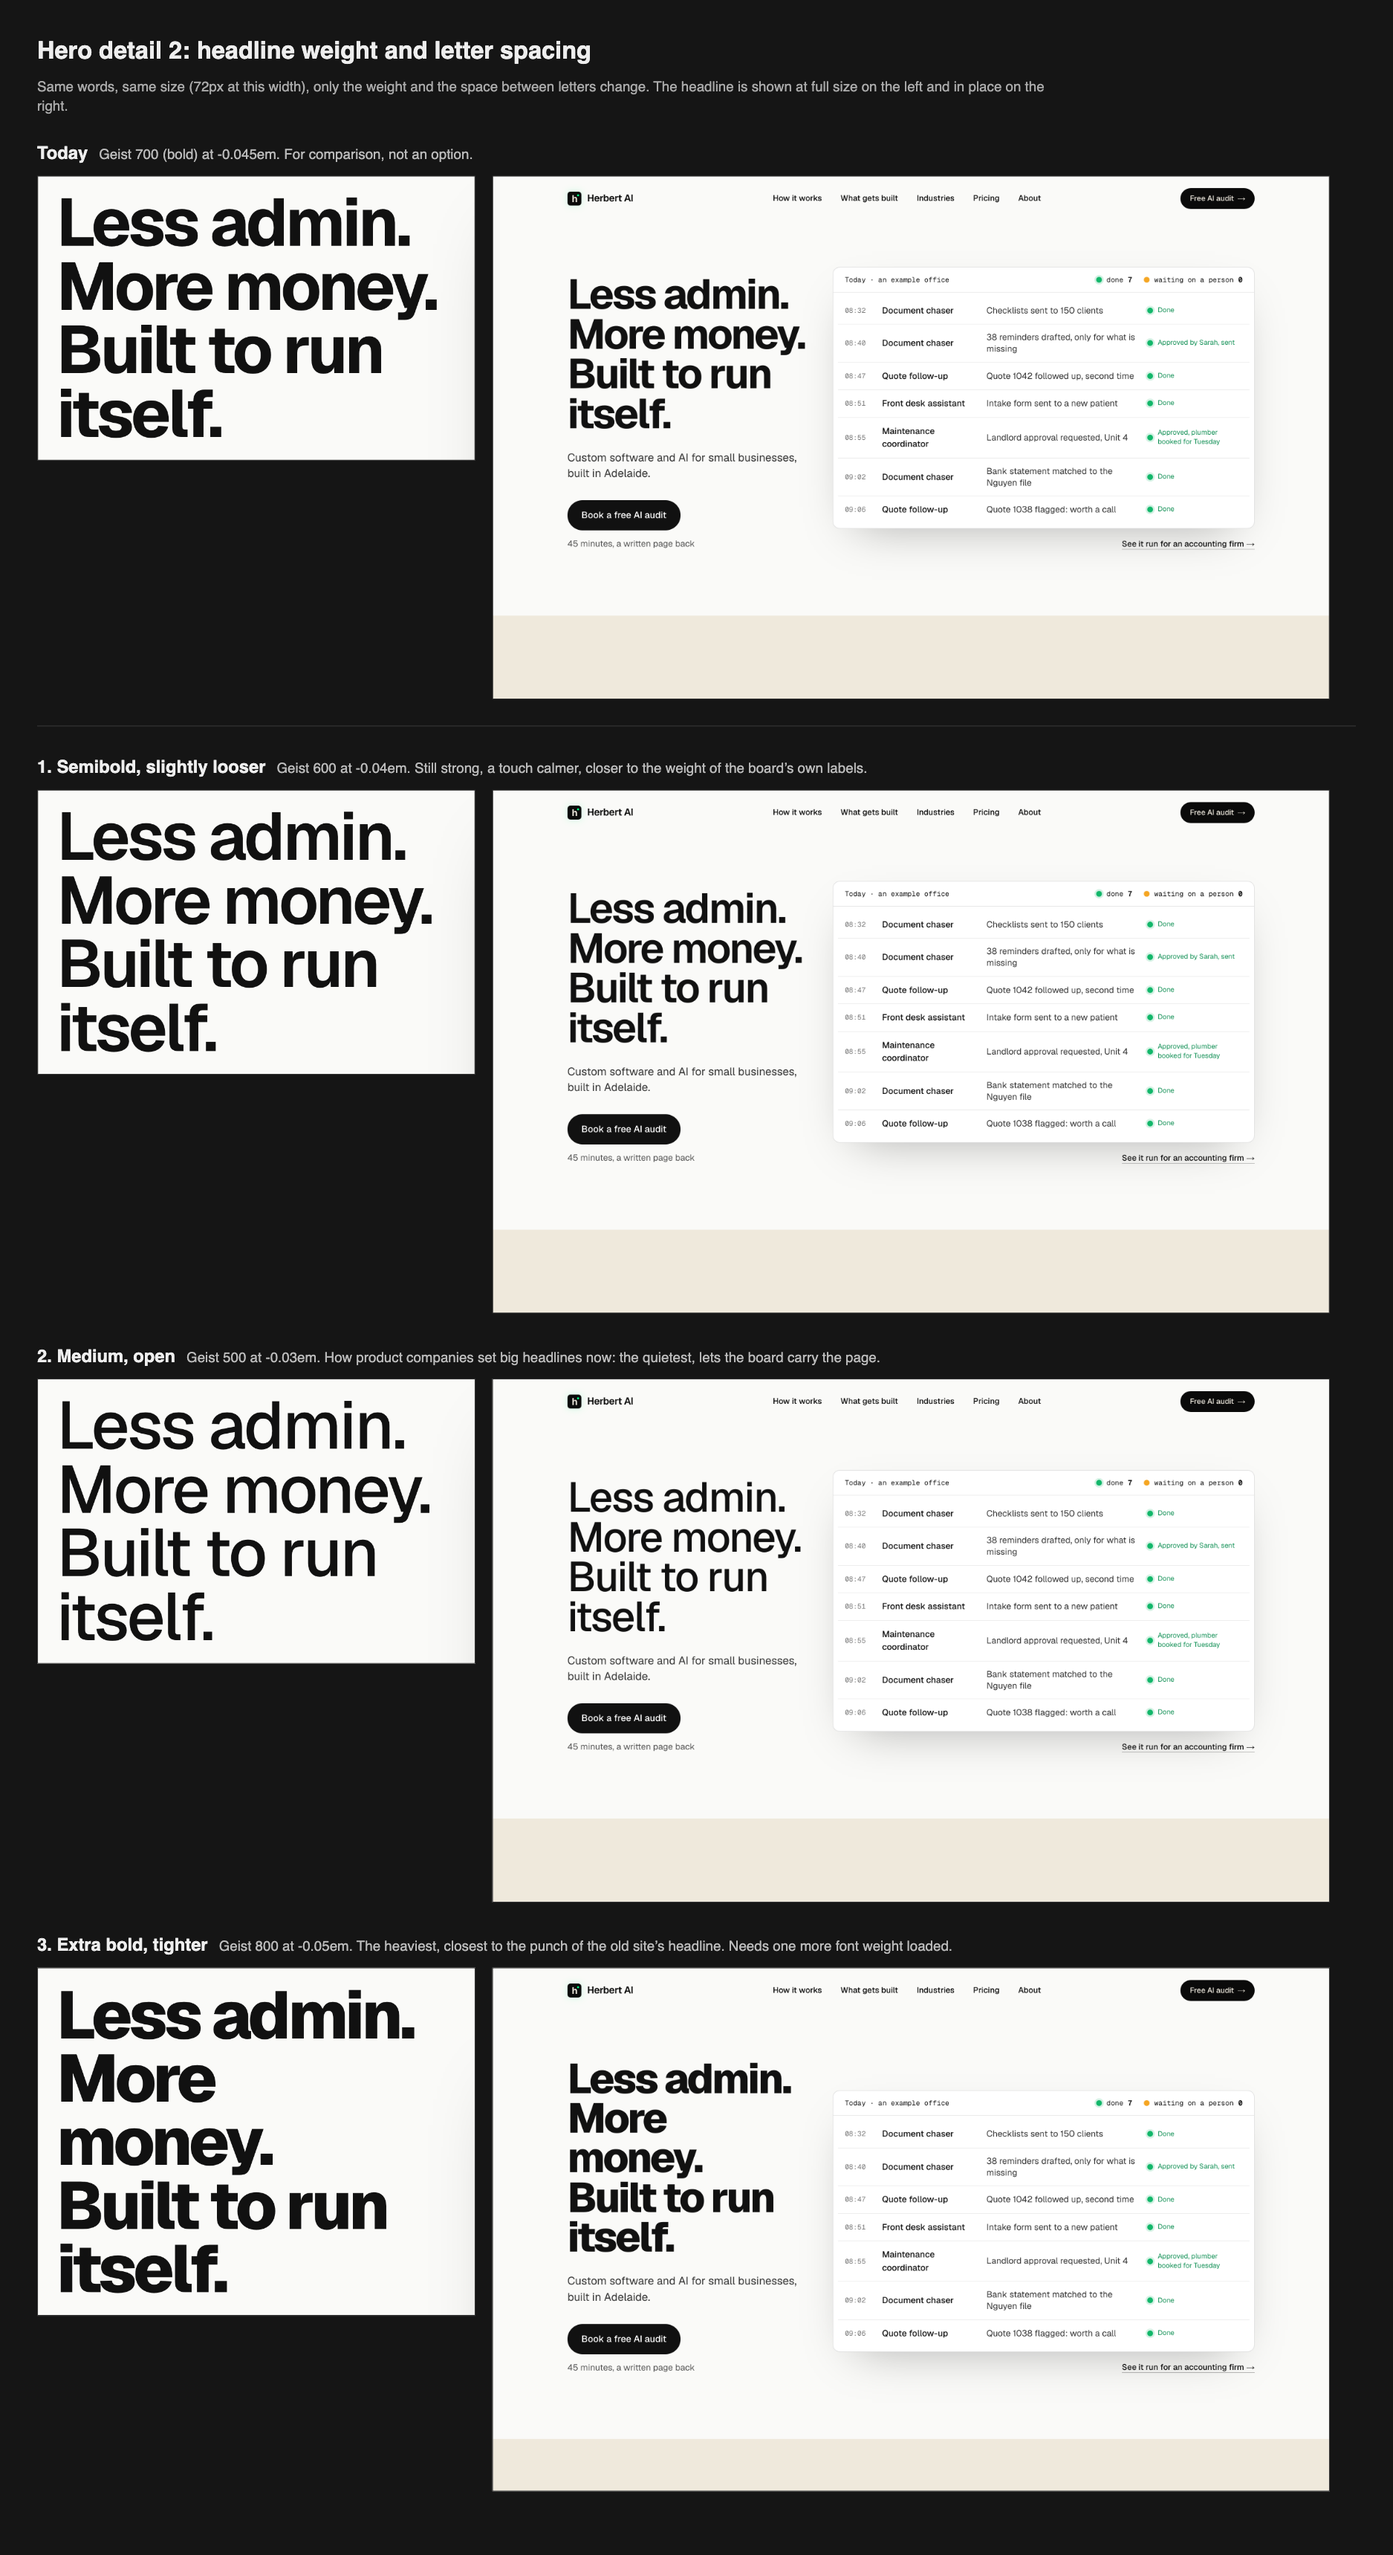
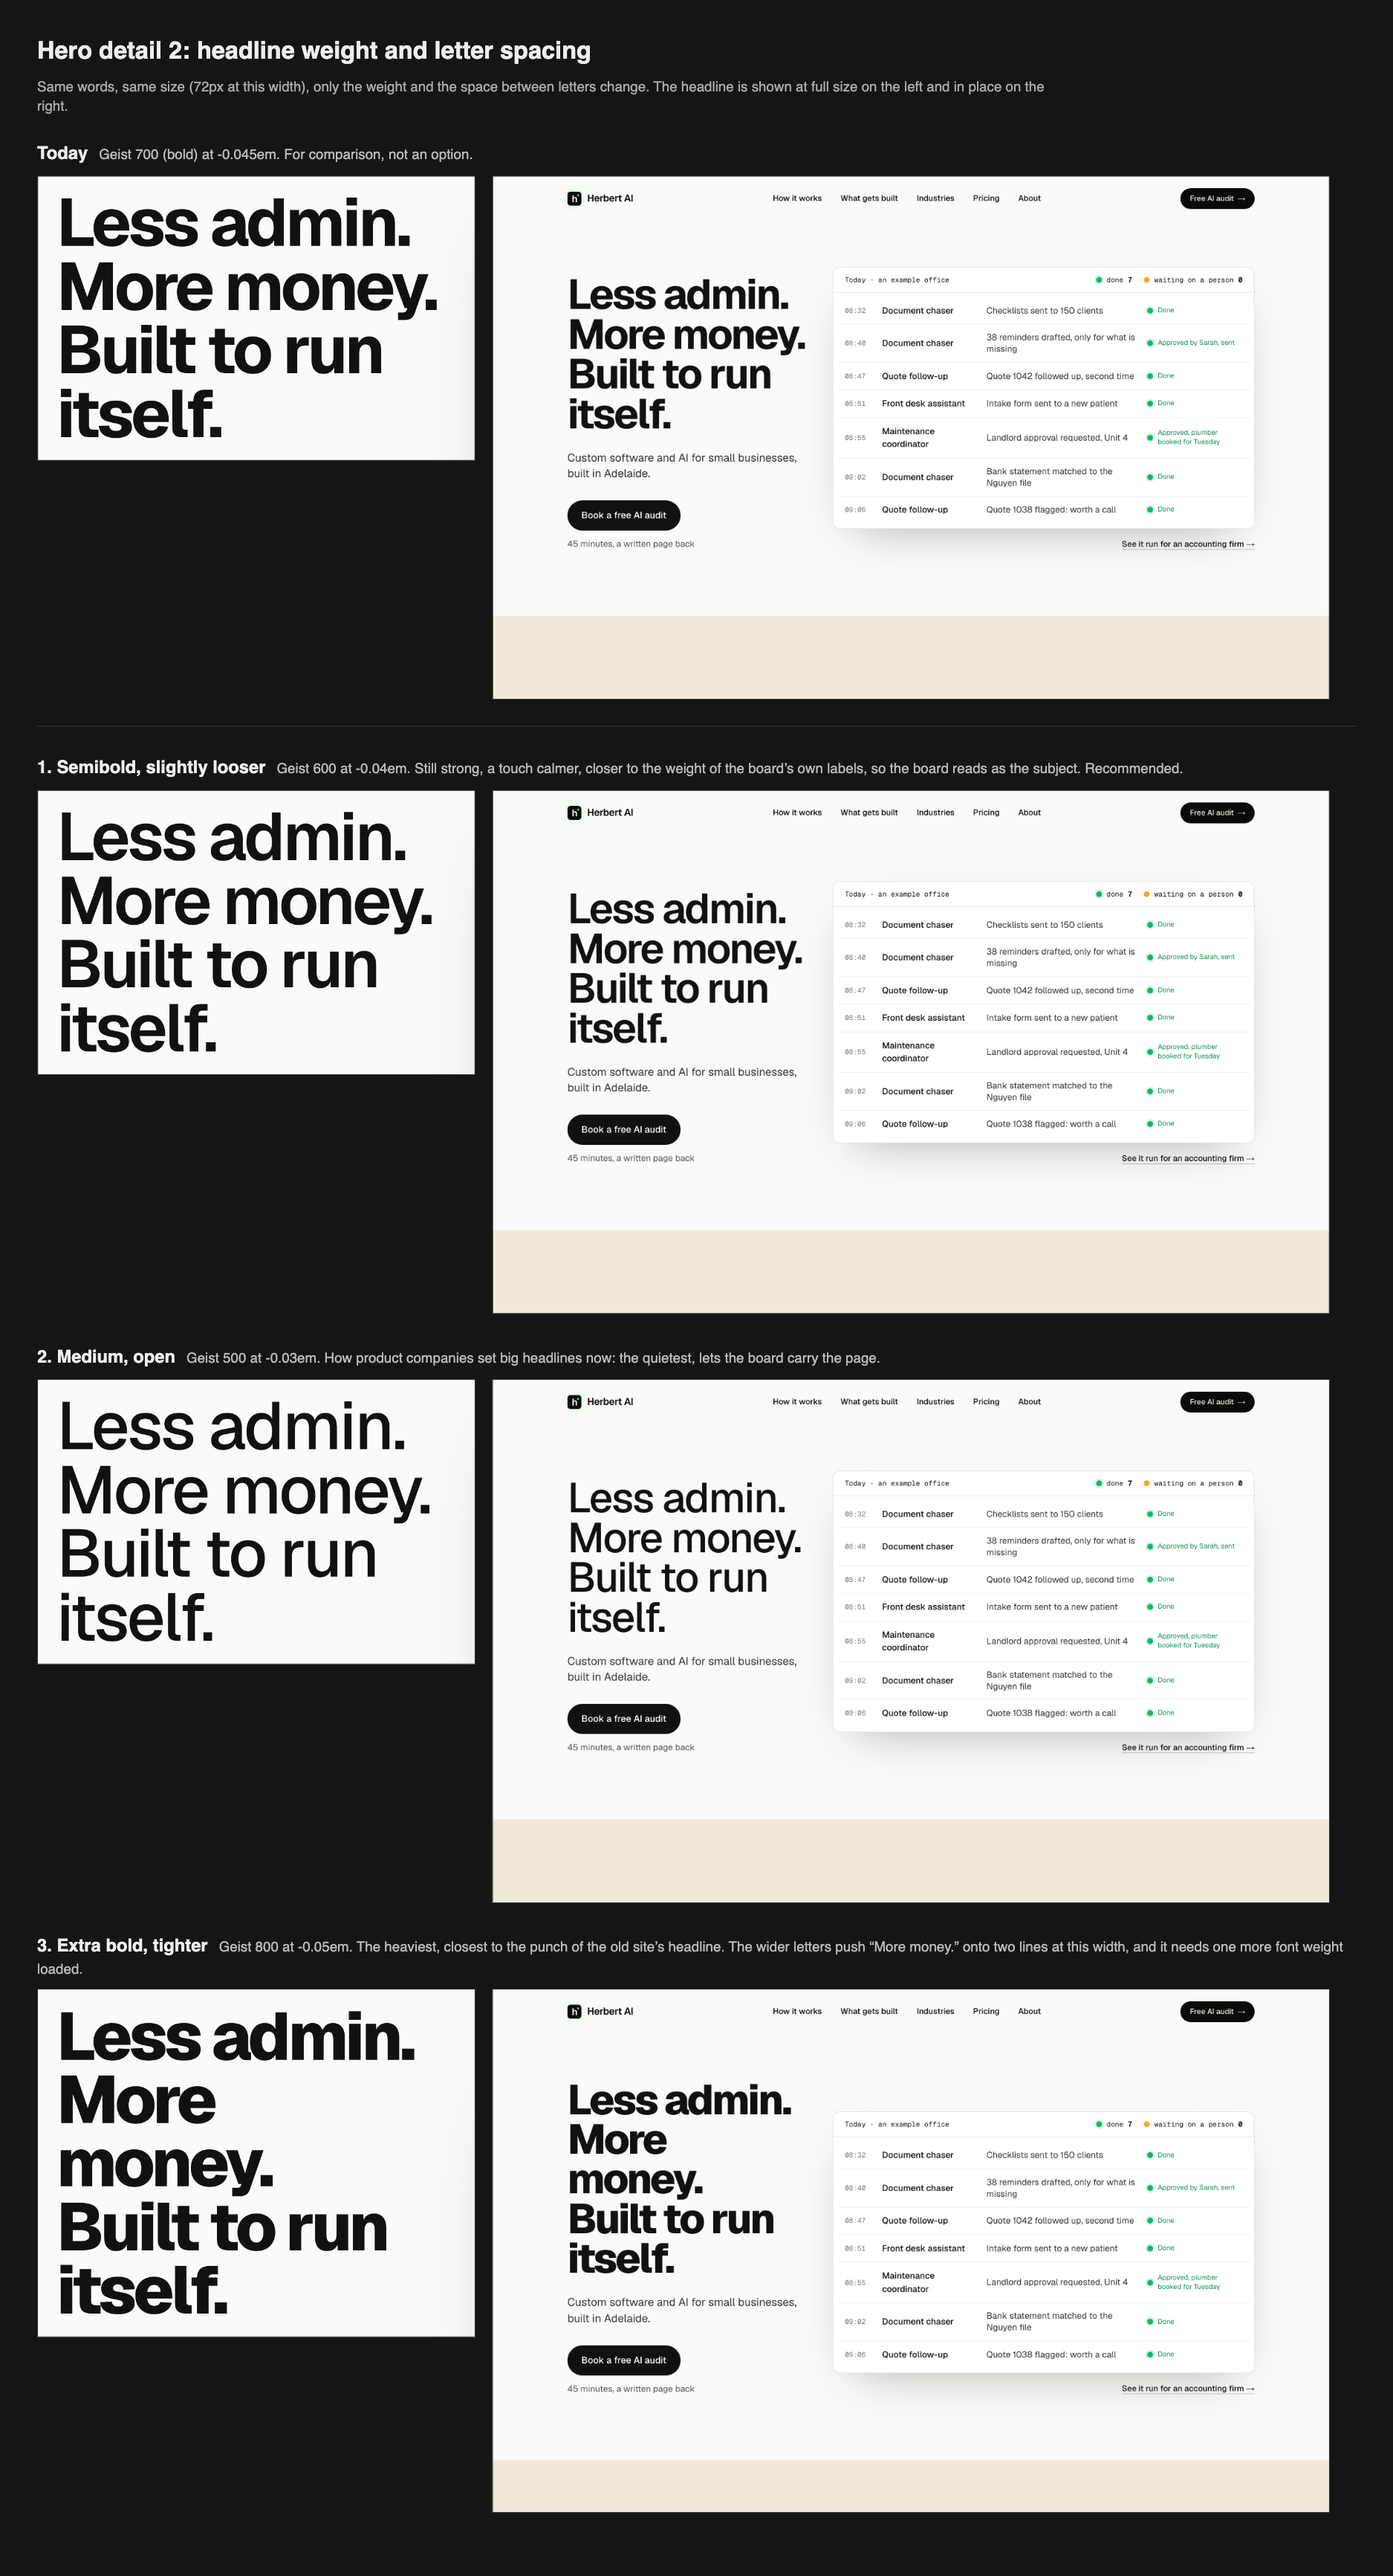
headline weight board: note option 3's line break and the recommendation

diff --git a/herbertai-website/docs/design/design-pass-site-2026-10-06-headline-weight.html b/herbertai-website/docs/design/design-pass-site-2026-10-06-headline-weight.html
@@ -4,4 +4,4 @@ section{margin-bottom:32px} .lab{margin-bottom:10px} .lab b{font-size:19px;margi
 .imgs{display:flex;gap:18px;align-items:flex-start} .imgs img{border:1px solid #333;display:block;background:#FAFAF8} .zoom{width:470px} .full{width:900px}
 .today{border-bottom:1px solid #333;padding-bottom:28px;margin-bottom:30px}</style><body><h1>Hero detail 2: headline weight and letter spacing</h1>
 <p class="intro">Same words, same size (72px at this width), only the weight and the space between letters change. The headline is shown at full size on the left and in place on the right.</p>
-<section class="today"><div class="lab"><b>Today</b><span>Geist 700 (bold) at -0.045em. For comparison, not an option.</span></div><div class="imgs"><img class="zoom" src="assets-2026-10-06/headline-today-zoom.png"><img class="full" src="assets-2026-10-06/headline-today-full.png"></div></section><section><div class="lab"><b>1. Semibold, slightly looser</b><span>Geist 600 at -0.04em. Still strong, a touch calmer, closer to the weight of the board’s own labels.</span></div><div class="imgs"><img class="zoom" src="assets-2026-10-06/headline-weight-1-zoom.png"><img class="full" src="assets-2026-10-06/headline-weight-1-full.png"></div></section><section><div class="lab"><b>2. Medium, open</b><span>Geist 500 at -0.03em. How product companies set big headlines now: the quietest, lets the board carry the page.</span></div><div class="imgs"><img class="zoom" src="assets-2026-10-06/headline-weight-2-zoom.png"><img class="full" src="assets-2026-10-06/headline-weight-2-full.png"></div></section><section><div class="lab"><b>3. Extra bold, tighter</b><span>Geist 800 at -0.05em. The heaviest, closest to the punch of the old site’s headline. Needs one more font weight loaded.</span></div><div class="imgs"><img class="zoom" src="assets-2026-10-06/headline-weight-3-zoom.png"><img class="full" src="assets-2026-10-06/headline-weight-3-full.png"></div></section></body>
+<section class="today"><div class="lab"><b>Today</b><span>Geist 700 (bold) at -0.045em. For comparison, not an option.</span></div><div class="imgs"><img class="zoom" src="assets-2026-10-06/headline-today-zoom.png"><img class="full" src="assets-2026-10-06/headline-today-full.png"></div></section><section><div class="lab"><b>1. Semibold, slightly looser</b><span>Geist 600 at -0.04em. Still strong, a touch calmer, closer to the weight of the board’s own labels, so the board reads as the subject. Recommended.</span></div><div class="imgs"><img class="zoom" src="assets-2026-10-06/headline-weight-1-zoom.png"><img class="full" src="assets-2026-10-06/headline-weight-1-full.png"></div></section><section><div class="lab"><b>2. Medium, open</b><span>Geist 500 at -0.03em. How product companies set big headlines now: the quietest, lets the board carry the page.</span></div><div class="imgs"><img class="zoom" src="assets-2026-10-06/headline-weight-2-zoom.png"><img class="full" src="assets-2026-10-06/headline-weight-2-full.png"></div></section><section><div class="lab"><b>3. Extra bold, tighter</b><span>Geist 800 at -0.05em. The heaviest, closest to the punch of the old site’s headline. The wider letters push “More money.” onto two lines at this width, and it needs one more font weight loaded.</span></div><div class="imgs"><img class="zoom" src="assets-2026-10-06/headline-weight-3-zoom.png"><img class="full" src="assets-2026-10-06/headline-weight-3-full.png"></div></section></body>

diff --git a/herbertai-website/docs/design/design-pass-site-2026-10-06-headline-weight.py b/herbertai-website/docs/design/design-pass-site-2026-10-06-headline-weight.py
@@ -28,9 +28,9 @@ async def capture():
             await ctx.close(); print("captured", name, "| weight, spacing, loaded faces:", info)
         await b.close()
 OPTS = [
-  ("1", "Semibold, slightly looser", "Geist 600 at -0.04em. Still strong, a touch calmer, closer to the weight of the board’s own labels.", "weight-1"),
+  ("1", "Semibold, slightly looser", "Geist 600 at -0.04em. Still strong, a touch calmer, closer to the weight of the board’s own labels, so the board reads as the subject. Recommended.", "weight-1"),
   ("2", "Medium, open", "Geist 500 at -0.03em. How product companies set big headlines now: the quietest, lets the board carry the page.", "weight-2"),
-  ("3", "Extra bold, tighter", "Geist 800 at -0.05em. The heaviest, closest to the punch of the old site’s headline. Needs one more font weight loaded.", "weight-3"),
+  ("3", "Extra bold, tighter", "Geist 800 at -0.05em. The heaviest, closest to the punch of the old site’s headline. The wider letters push “More money.” onto two lines at this width, and it needs one more font weight loaded.", "weight-3"),
 ]
 def sheet():
     rows = "".join(f'<section><div class="lab"><b>{n}. {t}</b><span>{d}</span></div><div class="imgs"><img class="zoom" src="assets-2026-10-06/headline-{v}-zoom.png"><img class="full" src="assets-2026-10-06/headline-{v}-full.png"></div></section>' for n, t, d, v in OPTS)
